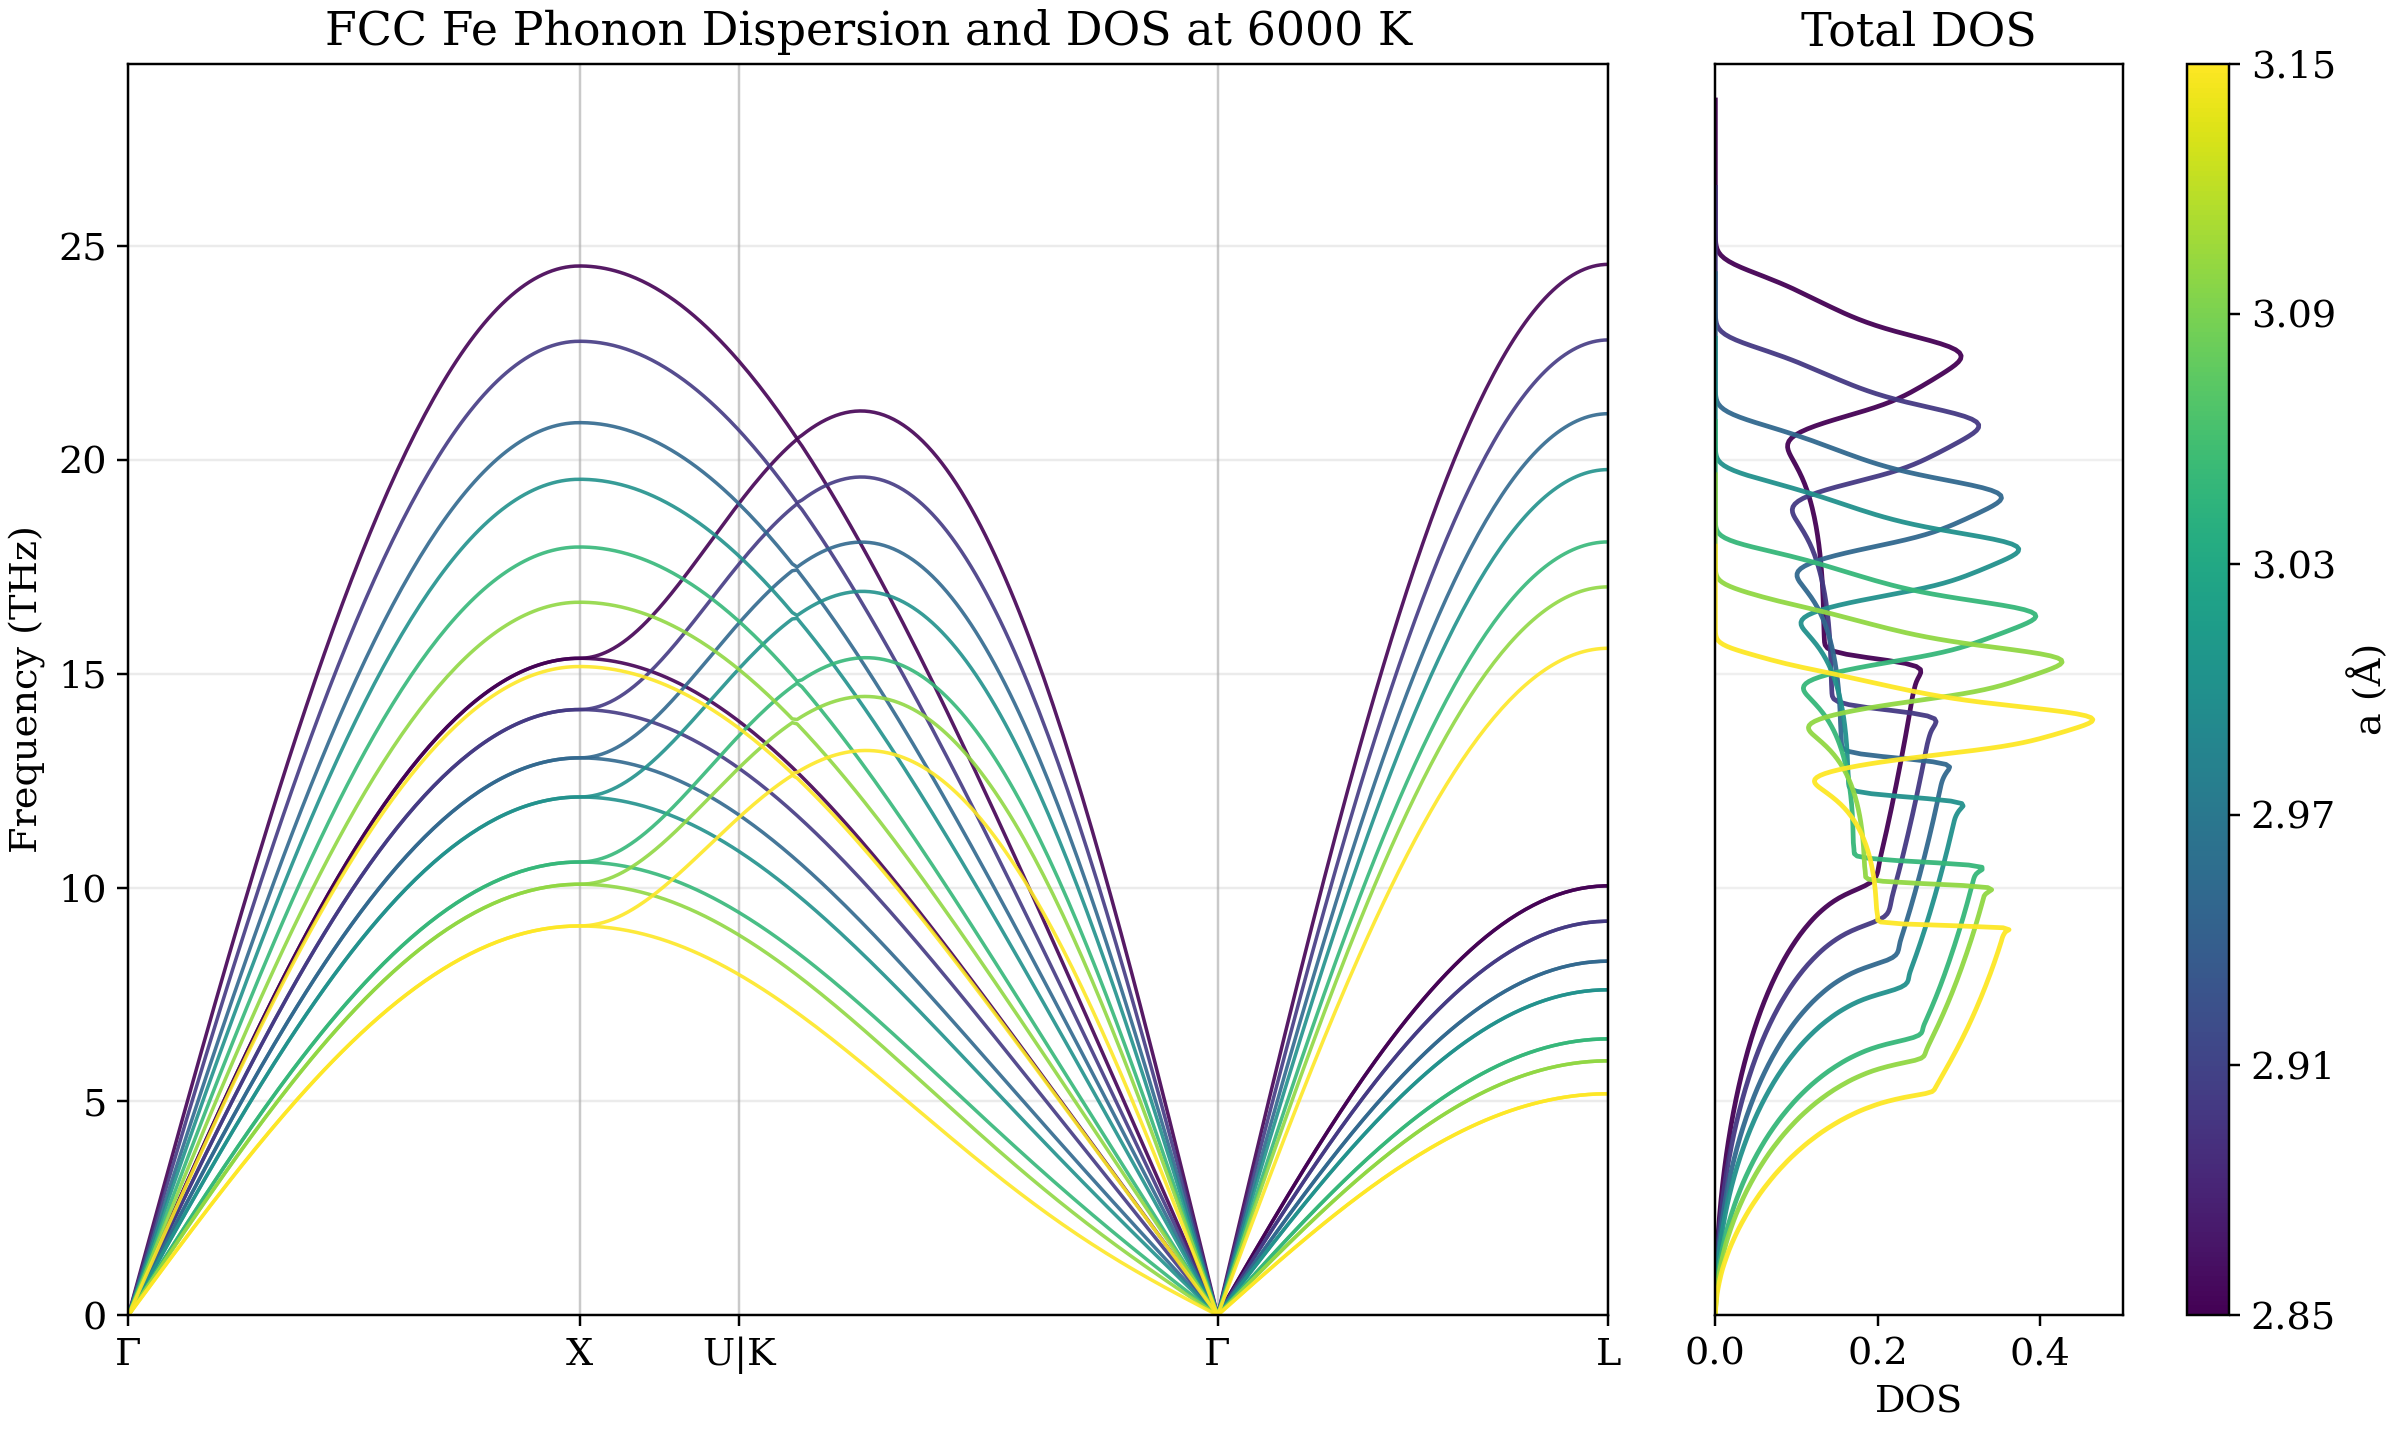
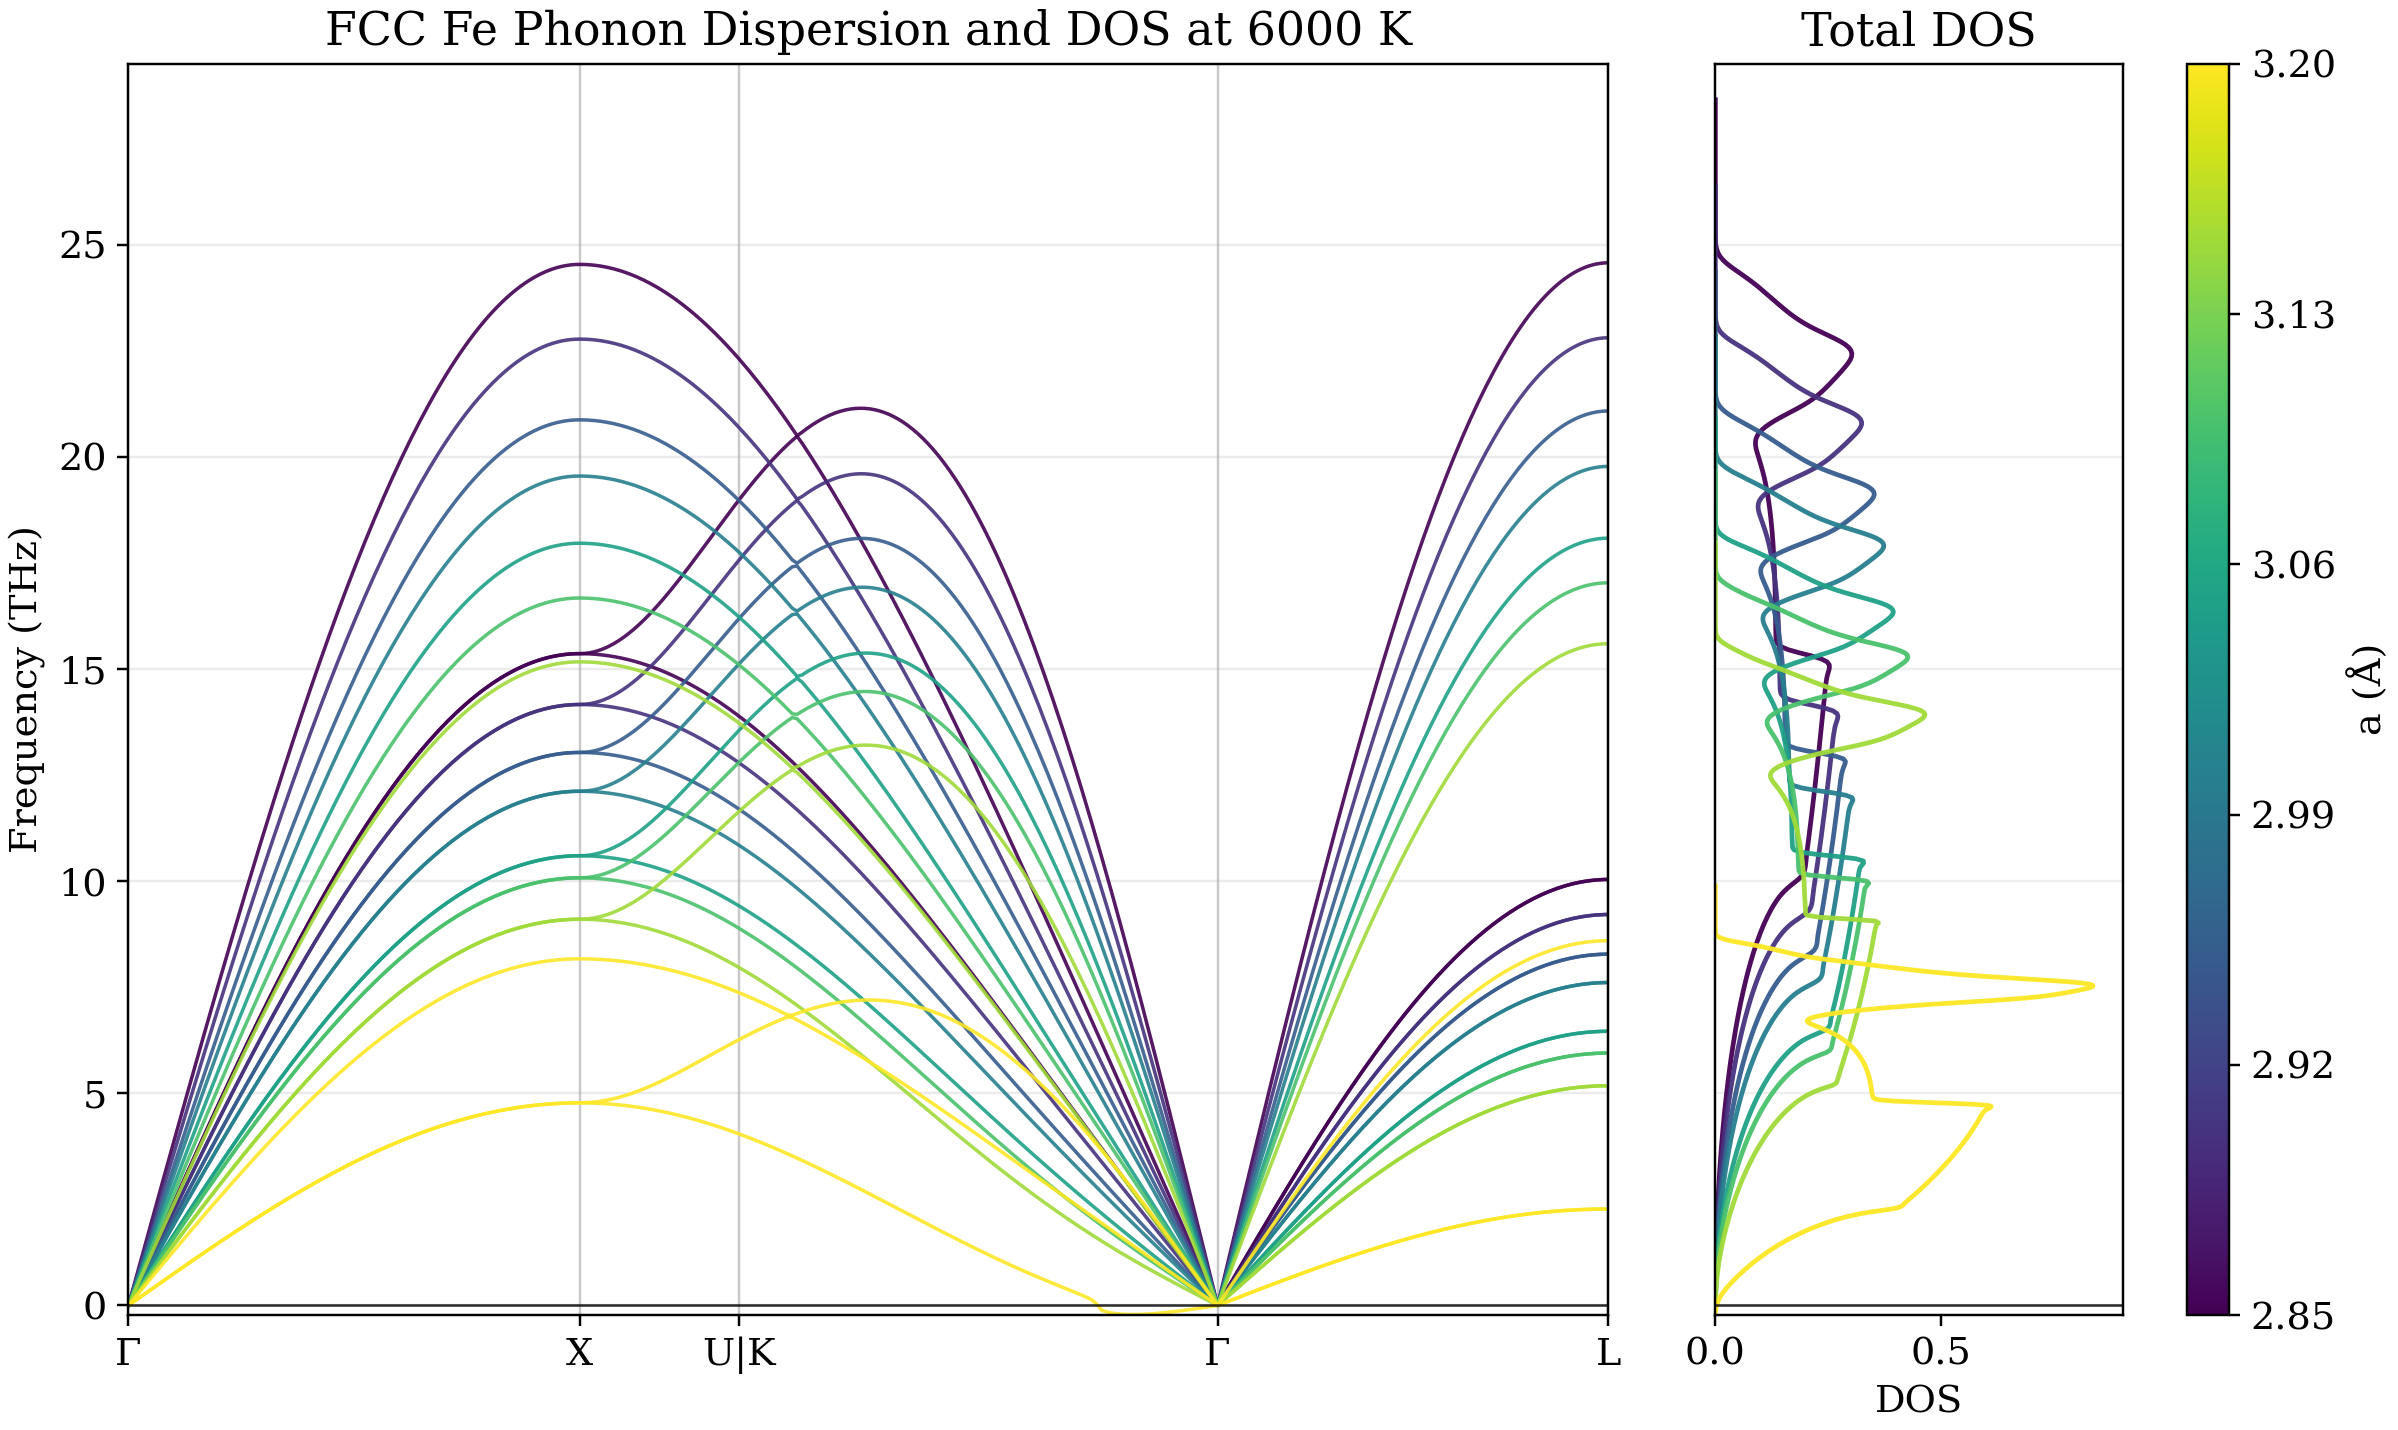
added fcc unstable branch 3.20 fcc 6000K

diff --git a/codes/tdep_workflow/plot_combined_dispersion.py b/codes/tdep_workflow/plot_combined_dispersion.py
@@ -196,28 +196,15 @@ def main() -> None:
     if not folders:
         raise FileNotFoundError(f"No TDEP folders found for {args.temperature_label} K in {dataset_dir}")
 
-    if get_phase_spec(args.phase).key == "hcp":
-        valid_folders = folders
-        skipped: list[str] = []
-    else:
-        valid_folders = []
-        skipped = []
-        for folder in folders:
-            if folder_has_valid_free_energy(folder):
-                valid_folders.append(folder)
-            else:
-                skipped.append(folder.name)
-        if not valid_folders:
-            raise ValueError(f"No valid TDEP folders remained after filtering for {args.temperature_label} K")
-
     output = resolve_path(
         dataset_dir,
         args.output if args.output is not None else dispersion_plot_name(args.temperature_label, phase=args.phase),
     )
-    plot(output, valid_folders, args.temperature_label, args.phase)
+    plot(output, folders, args.temperature_label, args.phase)
 
-    for folder_name in skipped:
-        print(f"Skipped {folder_name}: invalid free energy / imaginary modes")
+    unstable_folders = [folder.name for folder in folders if not folder_has_valid_free_energy(folder)]
+    for folder_name in unstable_folders:
+        print(f"Included {folder_name}: invalid free energy / imaginary modes retained in phonon overlay")
     print(f"Wrote {output}")
 
 

diff --git a/README.md b/README.md
@@ -226,7 +226,7 @@ The current `fcc` set spans `8` lattice points, `a = 2.85-3.20 A`, at `4000 K`, 
   <img src="assets/fcc_phonon_dispersion_overlay_6000K.png" alt="FCC phonon dispersion overlay 6000 K" width="48%" />
 </p>
 
-All eight current `fcc` runs are represented in `../dataset/fcc/non-mag` at each of the five temperatures. The `6000 K` thermodynamic fit currently accepts `7` points; `tdep_3.20_6000K` is excluded from the free-energy and pressure curves because it shows imaginary modes, but it is still retained in the raw TDEP workspace. The earlier stray `2.29_4000K` and `2.30_4000K` cases were not part of the FCC workflow because their cell geometry is consistent with `bcc`, not `fcc`.
+All eight current `fcc` runs are represented in `../dataset/fcc/non-mag` at each of the five temperatures. The `6000 K` thermodynamic fit currently accepts `7` points; `tdep_3.20_6000K` is excluded from the free-energy and pressure curves because it shows imaginary modes, but it is retained in the `6000 K` phonon overlay for reference. The earlier stray `2.29_4000K` and `2.30_4000K` cases were not part of the FCC workflow because their cell geometry is consistent with `bcc`, not `fcc`.
 
 ## What The Current Scripts Do
 